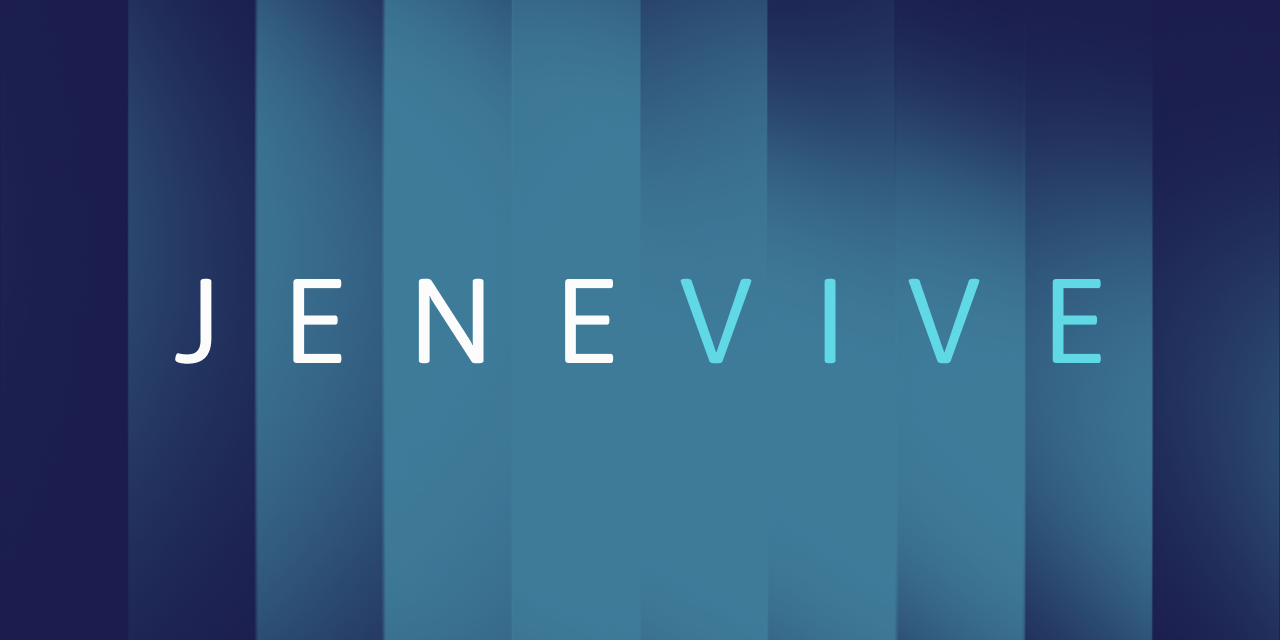
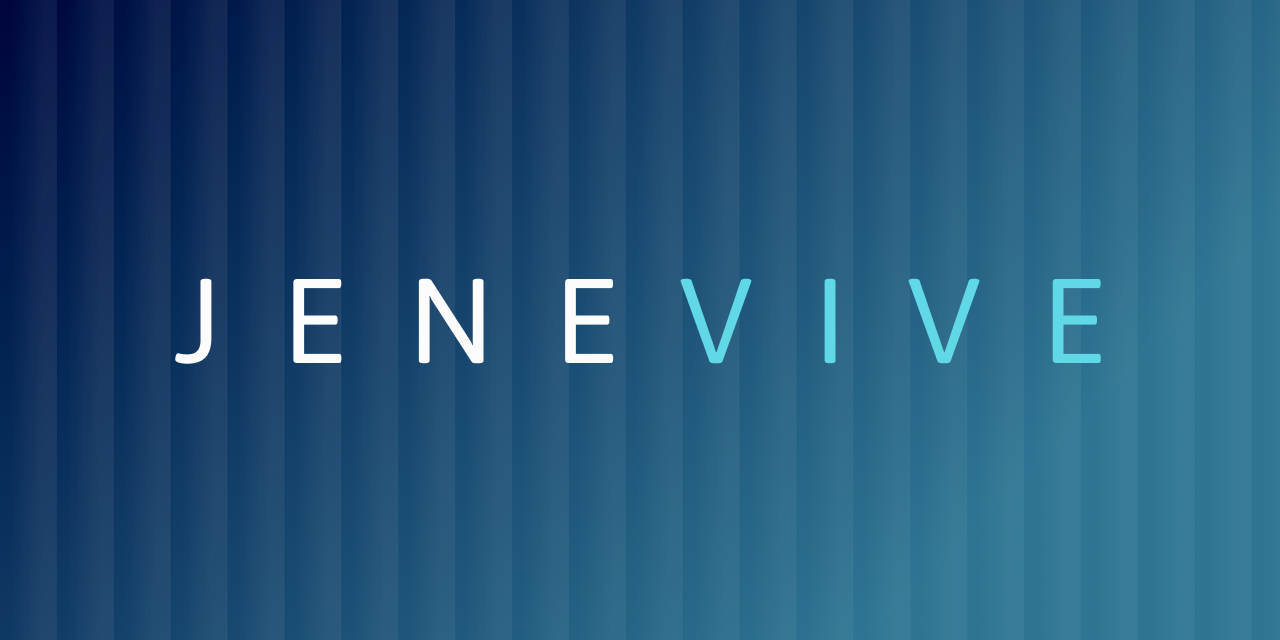
backgrounds + thumbnails

diff --git a/axon/assets/styles/components/_section.scss b/axon/assets/styles/components/_section.scss
@@ -64,47 +64,28 @@ section {
   }
 
   &.hero {
-    background: none;
-    // background: linear-gradient(135deg, #1A1D4D, #61D8E5 75%);
+    background: linear-gradient(135deg, transparent, rgba(97, 216, 229, .5) 75%);
     color: inherit;
     justify-content: center;
-    min-height: calc(100vh - 6.25rem);
-    z-index: -2;
+    min-height: 100vh;
+    padding: 6.25rem 0 0;
 
-    // --color: #b39e79;
-    // --color-2: #b39e7925;
-    // --color-3: #ffffff12;
-
-    // .glass {
-    //   background: linear-gradient(90deg,
-    //     transparent,
-    //     transparent 0.75rem,
-    //     var(--color-3) 4.5rem);
-    //   background-size: 5rem 100%;
-    //   height: 100%;
-    //   width: 100%;
-    //   backdrop-filter: blur(.65rem);
-    //   filter: contrast(1.35);
-    //   position: absolute;
-    //   z-index: 1;
-    //   inset: 0;
-    // }
-
-    // .glass2 {
-    //   position: absolute;
-    //   width: 500px;
-    //   height: 100vh;
-    //   display: flex;
-    //   pointer-events: none;
-    //   backdrop-filter: blur(40px);
-    //   background: repeating-linear-gradient(to left,
-    //       rgba(255, 255, 255, 0.15),
-    //       rgba(0, 0, 0, 0.04),
-    //       rgba(255, 255, 255, 0.15) 50px);
-    //   mix-blend-mode: overlay;
-    //   box-shadow: 0 4px 20px hsl(0deg 0% 0% / 6%), 0 16px 40px hsl(0deg 0% 0% / 2%);
-    //   z-index: 10000;
-    // }
+    .glass {
+      background: linear-gradient(
+        90deg,
+        transparent,
+        transparent 0.75rem,
+        rgba(255, 255, 255, .05) 3rem
+      );
+      background-size: 4rem 100%;
+      height: 100%;
+      width: 100%;
+      backdrop-filter: blur(.65rem);
+      filter: contrast(1.35);
+      position: absolute;
+      z-index: -1;
+      inset: 0;
+    }
   }
 
   &.hero .content {
@@ -155,7 +136,7 @@ section {
       grid-template-columns: 1fr 1fr 1fr;
       grid-template-rows: auto;
     }
-    &.hero { min-height: calc(100vh - 7.25rem); }
+    &.hero { padding: 7.25rem 0 0; }
     &.testimonials {
       .card { width: 23rem; }
       .cards { max-width: calc(100vw - 5rem); }
@@ -170,7 +151,7 @@ section {
       gap: 6rem;
       .logo img { width: 80%; }
     }
-    &.hero { min-height: calc(100vh - 7.5rem); }
+    &.hero { padding: 7.5rem 0 0; }
     &.testimonials {
       .avatar { height: 3.75rem; width: 3.75rem; }
       .card { width: 20.5rem; }

diff --git a/axon/assets/styles/index.css b/axon/assets/styles/index.css
@@ -195,9 +195,7 @@ section {
 }
 
 .page {
-  background: var(--color-primary) url("../images/backgrounds/background-heart.png") no-repeat;
-  background-position: center 0;
-  background-size: auto 100vh;
+  background: var(--color-primary);
   color: var(--color-foreground-contrast);
   display: flex;
   flex-direction: column;
@@ -207,6 +205,11 @@ section {
   color: var(--color-primary);
 }
 
+@media (max-width: 23.5rem) {
+  .button-group {
+    align-self: start;
+  }
+}
 @media (min-width: 64rem) {
   .content {
     padding: 5rem 2rem;
@@ -318,6 +321,9 @@ footer .social-icons {
 }
 header {
   justify-content: center;
+  left: 0;
+  position: absolute;
+  top: 0;
 }
 
 header .content {
@@ -448,11 +454,22 @@ section.features .cards {
   grid-template-rows: 1fr 1fr 1fr;
 }
 section.hero {
-  background: none;
+  background: linear-gradient(135deg, transparent, rgba(97, 216, 229, 0.5) 75%);
   color: inherit;
   justify-content: center;
-  min-height: calc(100vh - 6.25rem);
-  z-index: -2;
+  min-height: 100vh;
+  padding: 6.25rem 0 0;
+}
+section.hero .glass {
+  background: linear-gradient(90deg, transparent, transparent 0.75rem, rgba(255, 255, 255, 0.05) 3rem);
+  background-size: 4rem 100%;
+  height: 100%;
+  width: 100%;
+  backdrop-filter: blur(0.65rem);
+  filter: contrast(1.35);
+  position: absolute;
+  z-index: -1;
+  inset: 0;
 }
 section.hero .content {
   align-items: start;
@@ -509,7 +526,7 @@ section.testimonials .info {
     grid-template-rows: auto;
   }
   section.hero {
-    min-height: calc(100vh - 7.25rem);
+    padding: 7.25rem 0 0;
   }
   section.testimonials .card {
     width: 23rem;
@@ -529,7 +546,7 @@ section.testimonials .info {
     width: 80%;
   }
   section.hero {
-    min-height: calc(100vh - 7.5rem);
+    padding: 7.5rem 0 0;
   }
   section.testimonials .avatar {
     height: 3.75rem;

diff --git a/axon/assets/styles/base/_global.scss b/axon/assets/styles/base/_global.scss
@@ -102,17 +102,17 @@ section {
 }
 
 .page {
-  background: var(--color-primary) url("../images/backgrounds/background-heart.png") no-repeat;
-  // background: var(--color-primary);
-  background-position: center 0;
-  background-size: auto 100vh;
+  background: var(--color-primary);
   color: var(--color-foreground-contrast);
-  // display: grid;
   display: flex;
   flex-direction: column;
 }
 
 .text-primary { color: var(--color-primary); }
+
+@media (max-width: 23.5rem) {
+  .button-group { align-self: start; }
+}
 
 @media (min-width: 64rem) {
   .content { padding: 5rem 2rem; }

diff --git a/axon/index.html b/axon/index.html
@@ -31,7 +31,7 @@
 
   <main>
     <section class="hero">
-      <!-- <div class="glass"></div> -->
+      <div class="glass"></div>
       <div class="content">
         <div class="stack column gap-3">
           <div class="stack column gap-1">

diff --git a/axon/assets/styles/components/_header.scss b/axon/assets/styles/components/_header.scss
@@ -1,5 +1,8 @@
 header {
   justify-content: center;
+  left: 0;
+  position: absolute;
+  top: 0;
 }
 
 header .content {

diff --git a/readme.md b/readme.md
@@ -47,10 +47,13 @@ npm start
 ---
 
 
-#### Code + Demo
+#### Design + Code + Demo
 
-##### Repository
+##### Figma Design
+https://www.figma.com/design/vT2vGIslxd1zPkihcnFvUY/jenevive.health-2025-DEMO
+
+##### Github Repository
 https://github.com/mranenko/jenevive.health
 
-##### Demo
+##### Website Demo
 https://jenevive.netlify.app
